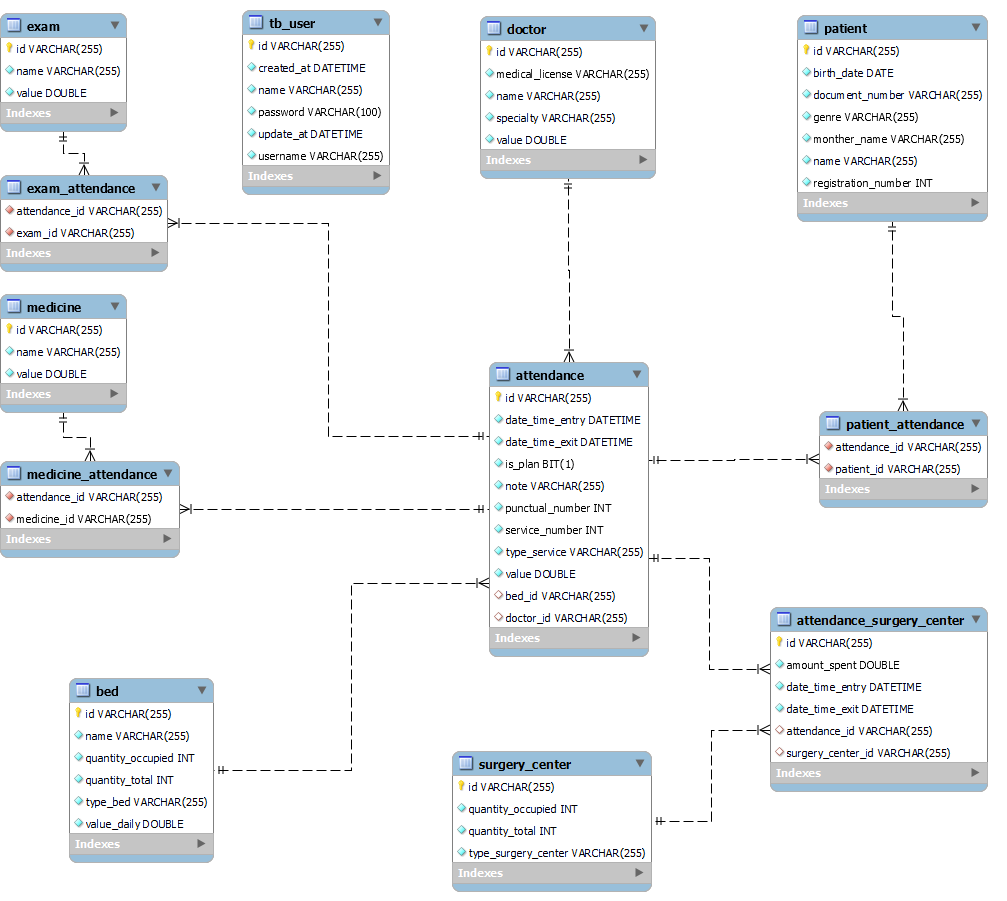
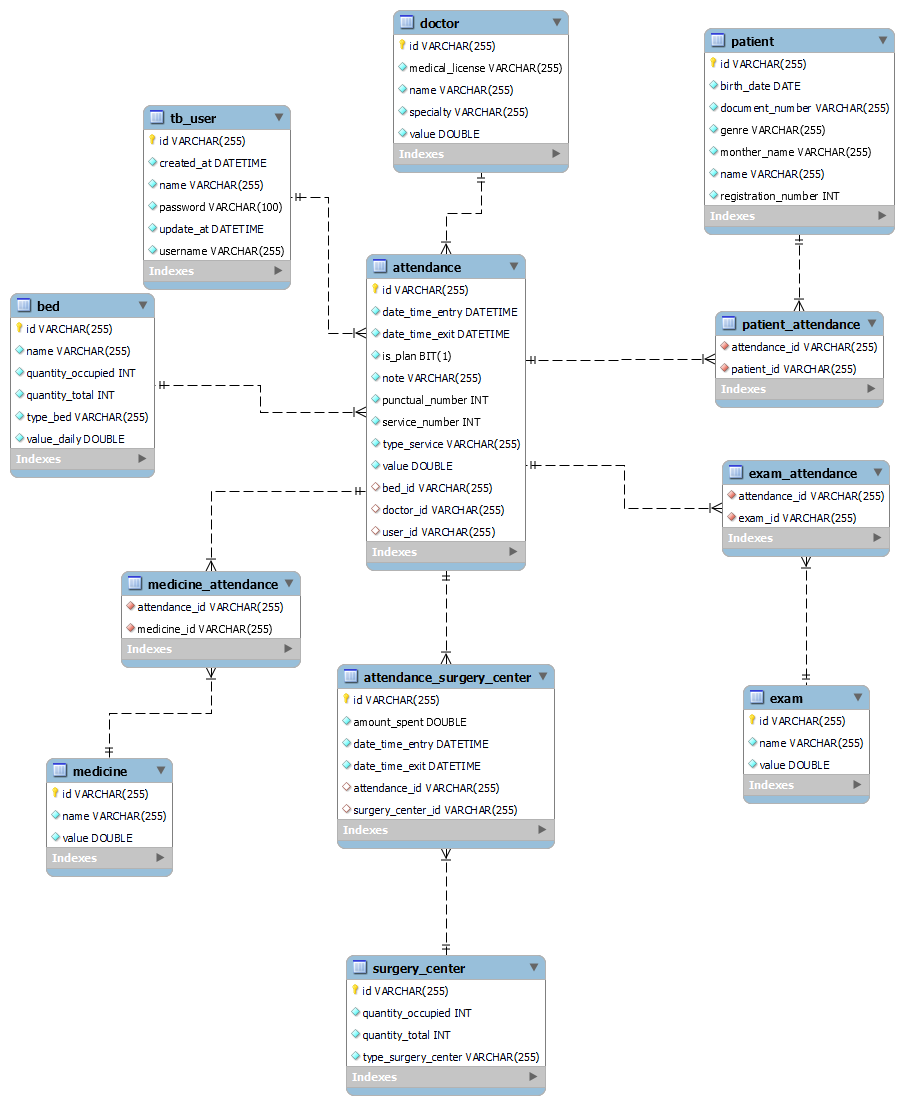
Update in relations

diff --git a/src/main/java/com/control/hospital/entity/Attendance.java b/src/main/java/com/control/hospital/entity/Attendance.java
@@ -45,6 +45,10 @@ public class Attendance {
     @JoinColumn(name = "bed_id", referencedColumnName = "id")
     private Bed bedId;
 
+    @OneToOne(cascade = ALL)
+    @JoinColumn(name = "user_id", referencedColumnName = "id")
+    private User userId;
+
     @Column(nullable = false)
     private Double value;
 
